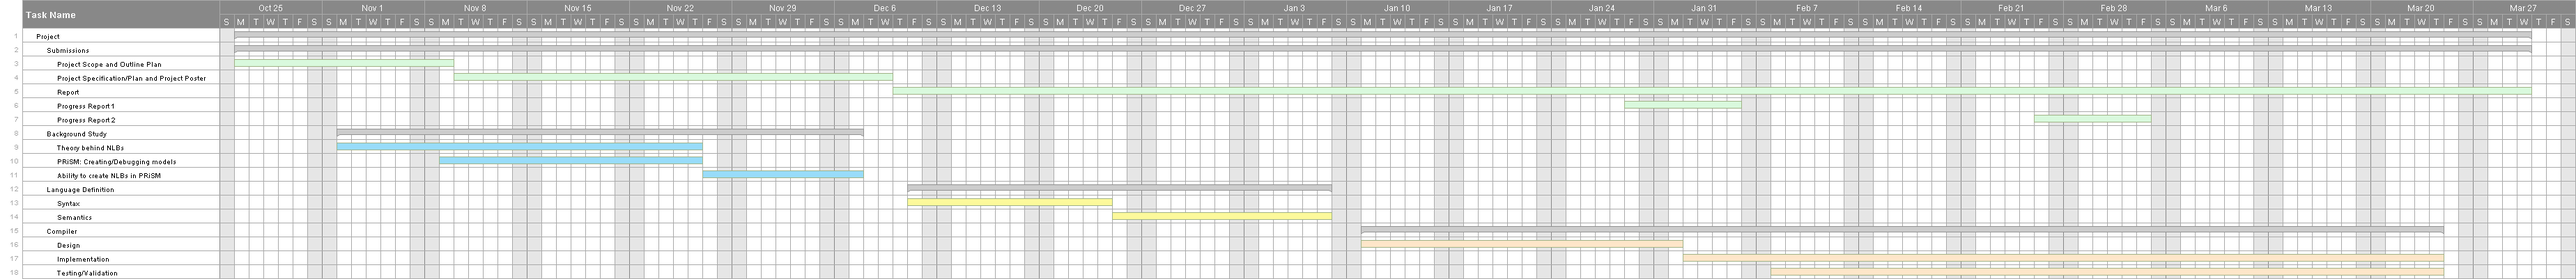
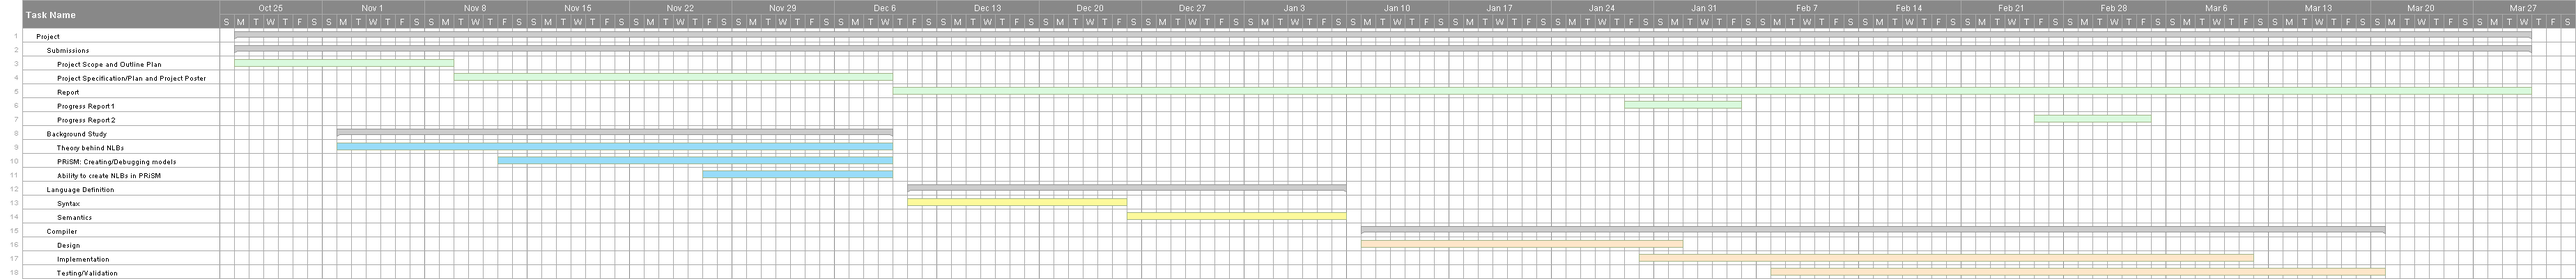
Final commit for this.

diff --git a/docs/project-scope-outline-plan/project-scope-outline-plan.tex b/docs/project-scope-outline-plan/project-scope-outline-plan.tex
@@ -162,7 +162,7 @@ deadlines. It is available here:
 
         4th of March & Progress Report 2 Due. \\
 
-        30th of March & Implementing and verifying compiler. \\
+        20th of March & Implementing and verifying compiler. \\
 \end{tabular}
 \end{center}
 % section project_plan (end)
